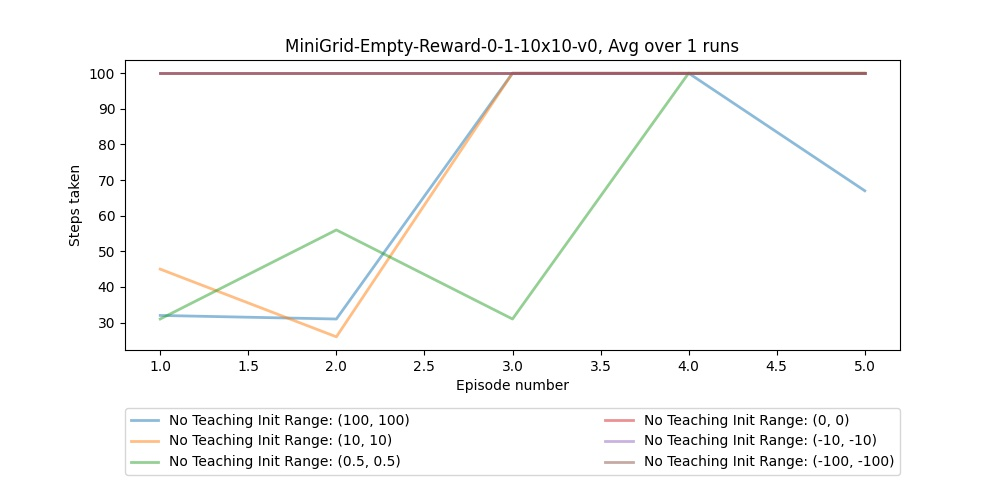
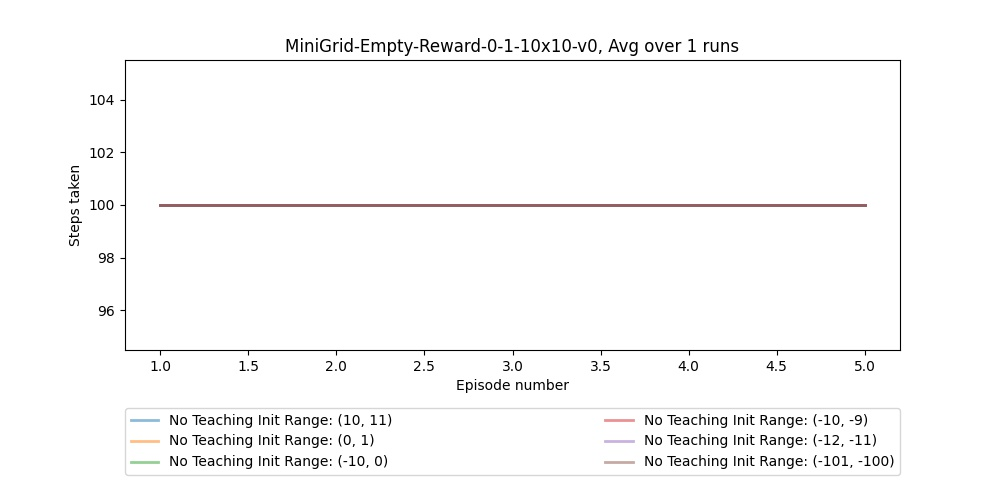
added random init

diff --git a/rl_learner/main.py b/rl_learner/main.py
@@ -340,7 +340,7 @@ if __name__ == '__main__':
                                   num_actions, random=False)
     print(q_table_init_z)
     q_table_init_r = init_q_table(actual_grid_height, actual_grid_width,
-                                  num_actions, random=True, min=-1, max=2,
+                                  num_actions, random=True, min=-11, max=-10,
                                   terminal_states=terminal_states)
     print(q_table_init_r)
     policy_init = get_optimal_policy(q_table_init_r, terminal_states)
@@ -351,14 +351,15 @@ if __name__ == '__main__':
                                          actual_grid_width, goal_state)
     pretty_print_policy(teaching_policy)
 
-    ep_chunk = 5
+
+    ep_chunk = 1
     max_steps_per_episode = 100
 
     learning_rate = 0.1
     discount_rate = 0.9
     exploration_rate = 0.1
 
-    num_episodes = 500
+    num_episodes = 5
     theta_list = [0.05, 0.15]
     x_axis = np.linspace(1, num_episodes, int(num_episodes / ep_chunk))
     plot_rew = False
@@ -366,14 +367,17 @@ if __name__ == '__main__':
     show_plot = False
     teaching = False
     no_teaching = True
-    avg_over = 10
-    q_init_list = [(100, 100), (10, 10), (0.5, 0.5), (0, 0), (-10, -10),
-                   (-100, -100)]
+    init_random = True
+    avg_over = 1
+    # q_init_list = [(100, 100), (10, 10), (0.5, 0.5), (0, 0), (-10, -10),
+    #                (-100, -100)]
+    q_init_list = [(100, 101), (10, 11), (0, 1), (-1, 0), (-11, -10),
+                   (-101, -100)]
     grid_list = ['MiniGrid-Empty-Reward-0-1-5x5-v0', 'MiniGrid-Empty-Reward-0-1-10x10-v0',
                  'MiniGrid-Empty-Reward-0-1-20x20-v0']
 
     for grid in grid_list:
-        main_dir = f'{grid}_avg_{avg_over}/'
+        main_dir = f'{grid}_avg_{avg_over}_random_{init_random}/'
         try:
             os.mkdir(main_dir)
         except:
@@ -387,7 +391,7 @@ if __name__ == '__main__':
         terminal_states = [(actual_grid_width, actual_grid_height)]
         goal_state = terminal_states[-1]
         for q_init in q_init_list:
-            title = f'{grid}, Avg over {avg_over} runs'
+            title = f'{grid}, Avg over {avg_over} runs, Random = {init_random}'
             if no_teaching:
                 avg_steps_all_ep_nt = np.zeros(num_episodes // ep_chunk)
                 for avg_num in range(1, avg_over + 1):
@@ -395,7 +399,8 @@ if __name__ == '__main__':
                           f' {q_init[1]}) '
                           f'run: {avg_num}')
                     q_table_nt = init_q_table(actual_grid_height, actual_grid_width,
-                                                 num_actions, random=False,
+                                                 num_actions,
+                                                 random=init_random,
                                                  min=q_init[0],
                                                  max=q_init[1],
                                                  terminal_states=terminal_states)
@@ -432,7 +437,7 @@ if __name__ == '__main__':
     no_teaching = False
 
     for grid in grid_list:
-        main_dir = f'{grid}_avg_{avg_over}/'
+        main_dir = f'{grid}_avg_{avg_over}_random_{init_random}/'
         try:
             os.mkdir(main_dir)
         except:
@@ -447,7 +452,7 @@ if __name__ == '__main__':
         goal_state = terminal_states[-1]
         for theta in theta_list:
             for q_init in q_init_list:
-                title = f'{grid}, Avg over {avg_over} runs, Theta = {theta}'
+                title = f'{grid}, Avg over {avg_over} runs, Theta = {theta}, Random = {init_random}'
                 if no_teaching:
                     avg_steps_all_ep_nt = np.zeros(num_episodes // ep_chunk)
                     for avg_num in range(1, avg_over + 1):
@@ -456,7 +461,7 @@ if __name__ == '__main__':
                             f'run: {avg_num}')
                         q_table_nt = init_q_table(actual_grid_height,
                                                   actual_grid_width,
-                                                  num_actions, random=False,
+                                                  num_actions, random=init_random,
                                                   min=q_init[0],
                                                   max=q_init[1],
                                                   terminal_states=terminal_states)
@@ -478,11 +483,12 @@ if __name__ == '__main__':
                     avg_steps_all_ep_t = np.zeros(num_episodes // ep_chunk)
                     for avg_num in range(1, avg_over + 1):
                         print(
-                            f'Teaching {grid} Cons Init ({q_init[0]}, {q_init[1]}) run:'
+                            f'Teaching {grid}, Theta = {theta}, Cons Init ({q_init[0]},'
+                            f' {q_init[1]}) run:'
                             f' {avg_num}')
                         q_table_t = init_q_table(actual_grid_height,
                                                  actual_grid_width,
-                                                 num_actions, random=False,
+                                                 num_actions, random=init_random,
                                                  min=q_init[0],
                                                  max=q_init[1],
                                                  terminal_states=terminal_states)
@@ -540,19 +546,21 @@ if __name__ == '__main__':
             else:
                 plt.close()
 
-    # Actually render environment and watch the agent
-    # visualize_agent(q_table_t, num_episodes=2)
+        # Actually render environment and watch the agent
+        # visualize_agent(q_table_t, num_episodes=2)
 
 
     theta_list = [0.005, 0.015]
-    q_init_list = [(10, 10), (0, 0), (-5, -5), (-10, -10),
-                   (-11, -11), (-100, -100)]
+    # q_init_list = [(10, 10), (0, 0), (-5, -5), (-10, -10),
+    #                (-11, -11), (-100, -100)]
+    q_init_list = [(10, 11), (0, 1), (-10, 0), (-10, -9),
+                   (-12, -11), (-101, -100)]
     grid_list = ['MiniGrid-Empty-Reward--1-0-5x5-v0',
                  'MiniGrid-Empty-Reward--1-0-10x10-v0',
                  'MiniGrid-Empty-Reward--1-0-20x20-v0']
 
     for grid in grid_list:
-        main_dir = f'{grid}_avg_{avg_over}/'
+        main_dir = f'{grid}_avg_{avg_over}_random_{init_random}/'
         try:
             os.mkdir(main_dir)
         except:
@@ -566,14 +574,14 @@ if __name__ == '__main__':
         terminal_states = [(actual_grid_width, actual_grid_height)]
         goal_state = terminal_states[-1]
         for q_init in q_init_list:
-            title = f'{grid}, Avg over {avg_over} runs'
+            title = f'{grid}, Avg over {avg_over} runs, Random = {init_random}'
             if no_teaching:
                 avg_steps_all_ep_nt = np.zeros(num_episodes // ep_chunk)
                 for avg_num in range(1, avg_over + 1):
                     print(f'No Teaching {grid} Cons Init ({q_init[0]}, {q_init[1]}) '
                           f'run: {avg_num}')
                     q_table_nt = init_q_table(actual_grid_height, actual_grid_width,
-                                                 num_actions, random=False,
+                                                 num_actions, random=init_random,
                                                  min=q_init[0],
                                                  max=q_init[1],
                                                  terminal_states=terminal_states)
@@ -610,7 +618,7 @@ if __name__ == '__main__':
     no_teaching = False
 
     for grid in grid_list:
-        main_dir = f'{grid}_avg_{avg_over}/'
+        main_dir = f'{grid}_avg_{avg_over}_random_{init_random}/'
         try:
             os.mkdir(main_dir)
         except:
@@ -625,7 +633,8 @@ if __name__ == '__main__':
         goal_state = terminal_states[-1]
         for theta in theta_list:
             for q_init in q_init_list:
-                title = f'{grid}, Avg over {avg_over} runs, Theta = {theta}'
+                title = f'{grid}, Avg over {avg_over} runs, Theta = {theta}, ' \
+                        f'Random = {init_random}'
                 if no_teaching:
                     avg_steps_all_ep_nt = np.zeros(num_episodes // ep_chunk)
                     for avg_num in range(1, avg_over + 1):
@@ -634,7 +643,7 @@ if __name__ == '__main__':
                             f'run: {avg_num}')
                         q_table_nt = init_q_table(actual_grid_height,
                                                   actual_grid_width,
-                                                  num_actions, random=False,
+                                                  num_actions, random=init_random,
                                                   min=q_init[0],
                                                   max=q_init[1],
                                                   terminal_states=terminal_states)
@@ -656,11 +665,11 @@ if __name__ == '__main__':
                     avg_steps_all_ep_t = np.zeros(num_episodes // ep_chunk)
                     for avg_num in range(1, avg_over + 1):
                         print(
-                            f'Teaching {grid} Cons Init ({q_init[0]}, {q_init[1]}) run:'
+                            f'Teaching {grid}, Theta = {theta} Cons Init ({q_init[0]}, {q_init[1]}) run:'
                             f' {avg_num}')
                         q_table_t = init_q_table(actual_grid_height,
                                                  actual_grid_width,
-                                                 num_actions, random=False,
+                                                 num_actions, random=init_random,
                                                  min=q_init[0],
                                                  max=q_init[1],
                                                  terminal_states=terminal_states)
